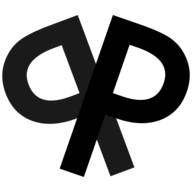
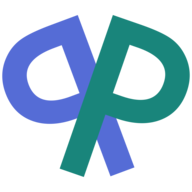
feat: Change styling, add support for multiple score sets (WIP), some minor fixes.

diff --git a/server/index.js b/server/index.js
@@ -34,15 +34,16 @@ const app = next({ dev });
 const handle = app.getRequestHandler();
 
 function broadcastState(sessionState) {
-  const { epoch, description, clients, scoresVisible, startedOn } = sessionState;
+  const { epoch, description, clients, votesVisible, startedOn, availableScores } = sessionState;
 
   Object.entries(clients).forEach(([identifier, { socket, score, name }]) => {
     const serializedState = {
       epoch,
+      availableScores,
       startedOn,
       description,
       me: { identifier, score, name },
-      scoresVisible: scoresVisible,
+      votesVisible: votesVisible,
       clients: Object.entries(clients).map(([identifier, { score, name }]) => ({
         identifier,
         score,
@@ -58,6 +59,11 @@ function broadcastState(sessionState) {
   });
 }
 
+const scorePresets = {
+  FIBONACCI: [0.5, 1, 2, 3, 5, 8, 13, 21, 100, "Pass"],
+  TSHIRT: ["XS", "S", "M", "L", "XL", "XXL", "Pass"],
+};
+
 app.prepare().then(() => {
   const server = createServer((req, res) => {
     const parsedUrl = parse(req.url, true);
@@ -72,7 +78,8 @@ app.prepare().then(() => {
     if (sessionState === undefined) {
       sessionState = state[sessionName] = {
         description: "",
-        scoresVisible: false,
+        availableScores: scorePresets.FIBONACCI,
+        votesVisible: false,
         startedOn: new Date(),
         epoch: 0,
         clients: {},
@@ -103,20 +110,21 @@ app.prepare().then(() => {
           myState.name = null;
           myState.score = null;
           break;
-        case "score":
+        case "vote":
           myState.score = action.score;
-          // Show scores after all participants has voted
-          if (Object.values(sessionState.clients).every(({ score, name }) => !name || score)) {
-            sessionState.scoresVisible = true;
+          // Show votes after all participants have voted
+          const participants = Object.values(sessionState.clients).filter(({ name }) => name);
+          if (participants.length > 1 && participants.every(({ score }) => score)) {
+            sessionState.votesVisible = true;
           }
           break;
         case "setVisibility":
-          sessionState.scoresVisible = action.scoresVisible;
+          sessionState.votesVisible = action.votesVisible;
           break;
         case "reconnect":
           myState.name = action.name;
-          // Only try to restore the score on reconnection, if we are still on the same
-          // description (the board has not been reset)
+          // Only try to restore the score on reconnection if we are still on the same
+          // thing we are scoring (implied by the fact that the board has not been reset)
           if (action.epoch === sessionState.epoch) {
             myState.score = action.score;
           }
@@ -127,7 +135,7 @@ app.prepare().then(() => {
           }
           break;
         case "resetBoard":
-          sessionState.scoresVisible = false;
+          sessionState.votesVisible = false;
           sessionState.epoch += 1;
           sessionState.startedOn = new Date();
           Object.values(sessionState.clients).forEach((c) => {

diff --git a/src/ScoreTable.js b/src/ScoreTable.js
@@ -43,9 +43,9 @@ export const useStyles = makeStyles((theme) => ({
   },
 }));
 
-function ScoreTableRow({ haveConsensus, isSelf, scoresVisible, name, score, ...transitionProps }) {
+function ScoreTableRow({ haveConsensus, isSelf, votesVisible, name, score, ...transitionProps }) {
   const classes = useStyles();
-  const isVisible = isSelf || scoresVisible;
+  const isVisible = isSelf || votesVisible;
 
   return (
     <Slide direction="right" timeout={500} in mountOnEnter unmountOnExit {...transitionProps}>
@@ -59,9 +59,9 @@ function ScoreTableRow({ haveConsensus, isSelf, scoresVisible, name, score, ...t
             // We want the score chip to be re-mounted on every change so that
             // th animation gives a visual indication that something happened,
             // even if the score is still hidden.
-            <Zoom key={`${score}_${scoresVisible}`} in mountOnEnter unmountOnExit>
+            <Zoom key={`${score}_${votesVisible}`} in mountOnEnter unmountOnExit>
               <Chip
-                variant={scoresVisible ? "default" : "outlined"}
+                variant={votesVisible ? "default" : "outlined"}
                 size="medium"
                 style={isVisible && { fontWeight: "bold" }}
                 label={isVisible ? score : "Hidden"}
@@ -75,7 +75,7 @@ function ScoreTableRow({ haveConsensus, isSelf, scoresVisible, name, score, ...t
   );
 }
 
-export function ScoreTable({ clients, selfIdentifier, haveConsensus, scoresVisible }) {
+export function ScoreTable({ clients, selfIdentifier, haveConsensus, votesVisible }) {
   const classes = useStyles();
   return (
     <TableContainer>
@@ -86,7 +86,7 @@ export function ScoreTable({ clients, selfIdentifier, haveConsensus, scoresVisib
             .map(({ identifier, name, score }) => (
               <ScoreTableRow
                 key={identifier}
-                scoresVisible={scoresVisible}
+                votesVisible={votesVisible}
                 haveConsensus={haveConsensus}
                 isSelf={identifier === selfIdentifier}
                 name={name}

diff --git a/src/MainBoard.js b/src/MainBoard.js
@@ -22,7 +22,7 @@
  * SOFTWARE.
  */
 import React from "react";
-import { ScorePanel } from "./ScorePanel";
+import { VotePanel } from "./VotePanel";
 import { makeStyles } from "@material-ui/core/styles";
 import { ScoreTable } from "./ScoreTable";
 import { DescriptionEdit } from "./DescriptionEdit";
@@ -32,9 +32,9 @@ export const useStyles = makeStyles((theme) => ({}));
 export function MainBoard({ remoteState, dispatch }) {
   const classes = useStyles();
 
-  const { scoresVisible, clients, me } = remoteState;
+  const { votesVisible, clients, me } = remoteState;
   const votesCast = new Set(clients.filter(({ name }) => name).map(({ score }) => score));
-  const haveConsensus = votesCast.size === 1 && !votesCast.has(null) && scoresVisible;
+  const haveConsensus = votesCast.size === 1 && !votesCast.has(null) && votesVisible;
 
   return (
     <>
@@ -42,20 +42,21 @@ export function MainBoard({ remoteState, dispatch }) {
         onChange={(value) => dispatch({ action: "setDescription", value: value })}
         description={remoteState.description}
       />
-      <ScorePanel
+      <VotePanel
         controlEnabled
-        scoresVisible={scoresVisible}
-        scoringEnabled={me.name !== null}
+        availableScores={remoteState.availableScores}
+        votesVisible={votesVisible}
+        votingEnabled={me.name !== null}
         selectedScore={me.score}
         onSetVisibility={(visibility) =>
           dispatch({
             action: "setVisibility",
-            scoresVisible: visibility,
+            votesVisible: visibility,
           })
         }
-        onScore={(score) =>
+        onVote={(score) =>
           dispatch({
-            action: "score",
+            action: "vote",
             score: score,
           })
         }
@@ -65,7 +66,7 @@ export function MainBoard({ remoteState, dispatch }) {
         clients={remoteState.clients}
         selfIdentifier={me.identifier}
         haveConsensus={haveConsensus}
-        scoresVisible={scoresVisible}
+        votesVisible={votesVisible}
       />
     </>
   );

diff --git a/src/VotePanel.js b/src/VotePanel.js
@@ -31,31 +31,34 @@ export const useStyles = makeStyles((theme) => ({
     marginBottom: theme.spacing(1),
     marginTop: theme.spacing(1),
   },
-  scoreButton: {
+  voteButton: {
     margin: theme.spacing(1),
+  },
+  scoresContainer: {
+    textAlign: "center",
   },
 }));
 
-export function ScorePanel({
-  scoresVisible,
-  scoringEnabled,
+export function VotePanel({
+  availableScores,
+  votesVisible,
+  votingEnabled,
   controlEnabled,
   selectedScore,
-  onScore,
+  onVote,
   onReset,
   onSetVisibility,
 }) {
   const classes = useStyles();
-  const scores = [0.5, 1, 2, 3, 5, 8, 13, 21, 100, "Pass"];
   return (
     <Grid container direction="row" justify="space-between" alignItems="center">
-      <Grid item sm={9} xs={12}>
-        {scores.map((score) => (
+      <Grid item sm={9} xs={12} className={classes.scoresContainer}>
+        {availableScores.map((score) => (
           <Button
-            disabled={!scoringEnabled}
+            disabled={!votingEnabled}
             key={score}
-            onClick={() => onScore(selectedScore === score ? null : score)}
-            className={classes.scoreButton}
+            onClick={() => onVote(selectedScore === score ? null : score)}
+            className={classes.voteButton}
             variant={selectedScore === score ? "outlined" : "text"}
             color="secondary"
           >
@@ -67,13 +70,13 @@ export function ScorePanel({
         <Button
           disabled={!controlEnabled}
           className={classes.actionButton}
-          onClick={() => onSetVisibility(!scoresVisible)}
+          onClick={() => onSetVisibility(!votesVisible)}
           fullWidth
-          variant={scoresVisible ? "contained" : "outlined"}
+          variant={votesVisible ? "contained" : "outlined"}
           color="secondary"
         >
-          {scoresVisible && "Hide votes"}
-          {!scoresVisible && "Show votes"}
+          {votesVisible && "Hide votes"}
+          {!votesVisible && "Show votes"}
         </Button>
 
         <Button

diff --git a/src/Logo.js b/src/Logo.js
@@ -21,38 +21,28 @@
  * OUT OF OR IN CONNECTION WITH THE SOFTWARE OR THE USE OR OTHER DEALINGS IN THE
  * SOFTWARE.
  */
-import React from "react";
-import Container from "@material-ui/core/Container";
+import LogoIcon from "svg-react-loader?name=LogoIcon!../src/assets/logo.svg";
+
+import { makeStyles } from "@material-ui/core/styles";
 import Box from "@material-ui/core/Box";
 import Link from "next/link";
-import Button from "@material-ui/core/Button";
-import { makeStyles } from "@material-ui/core/styles";
-import randomWords from "random-words";
-import Logo from "../src/Logo";
 
-const useStyles = makeStyles((theme) => ({}));
+const useStyles = makeStyles((theme) => ({
+  logo: {
+    height: theme.spacing(8),
+    width: theme.spacing(8),
+  },
+}));
 
-const getSessionId = () =>
-  randomWords({
-    exactly: 1,
-    wordsPerString: 3,
-    separator: "-",
-  })[0];
-
-export default function Home() {
+export default function Logo({}) {
   const classes = useStyles();
-
   return (
-    <Container maxWidth="sm">
-      <Box my={4}>
-        <Logo />
-        <p>Click here to go to your own planning poker session.</p>
-        <Link href="/[session]" as={`/${getSessionId()}`}>
-          <Button fullWidth size="large" variant="outlined">
-            New session
-          </Button>
-        </Link>
-      </Box>
-    </Container>
+    <Box my={2} display="flex" flexDirection="column" alignItems="center" justifyItems="center">
+      <Link href="/">
+        <a className="button">
+          <LogoIcon alt="Planning Poker" className={classes.logo} />
+        </a>
+      </Link>
+    </Box>
   );
 }

diff --git a/pages/[session].js b/pages/[session].js
@@ -28,12 +28,12 @@ import CircularProgress from "@material-ui/core/CircularProgress";
 import Card from "@material-ui/core/Card";
 import Box from "@material-ui/core/Box";
 import { useRouter } from "next/router";
-import Link from "next/link";
 import { useReconnector, useInternetConnectivity } from "../src/remoteState";
 import { MainBoard } from "../src/MainBoard";
 import { makeStyles } from "@material-ui/core/styles";
 import { SessionPanel } from "../src/SessionPanel";
 import { SessionUrlDisplay } from "../src/SessionUrlDisplay";
+import Logo from "../src/Logo";
 
 export const useStyles = makeStyles((theme) => ({
   card: {
@@ -56,11 +56,7 @@ export default function Session() {
   return (
     <Container maxWidth="sm">
       <Box my={4}>
-        <Link href="/">
-          <Typography variant="h4" component="h1" gutterBottom>
-            <a>Planning Poker</a>
-          </Typography>
-        </Link>
+        <Logo />
         {!remoteState && (
           <Card variant="outlined" className={classes.card}>
             <Box className={classes.connecting}>

diff --git a/README.md b/README.md
@@ -1,4 +1,6 @@
-This is a a Planning Poker app, useful for Scroom grooming session to avoid anchoring in point estimates.
+This is a a Planning Poker app, useful for Scrum grooming sessions to avoid anchoring in point estimates.
+
+## [See it live](https://poker.k8s.ojdip.net)
 
 ## Getting Started
 
@@ -9,3 +11,10 @@ yarn dev
 ```
 
 Open [http://localhost:3000](http://localhost:3000) with your browser to see the result.
+
+## Production build
+
+```bash
+yarn build
+yarn start
+```
